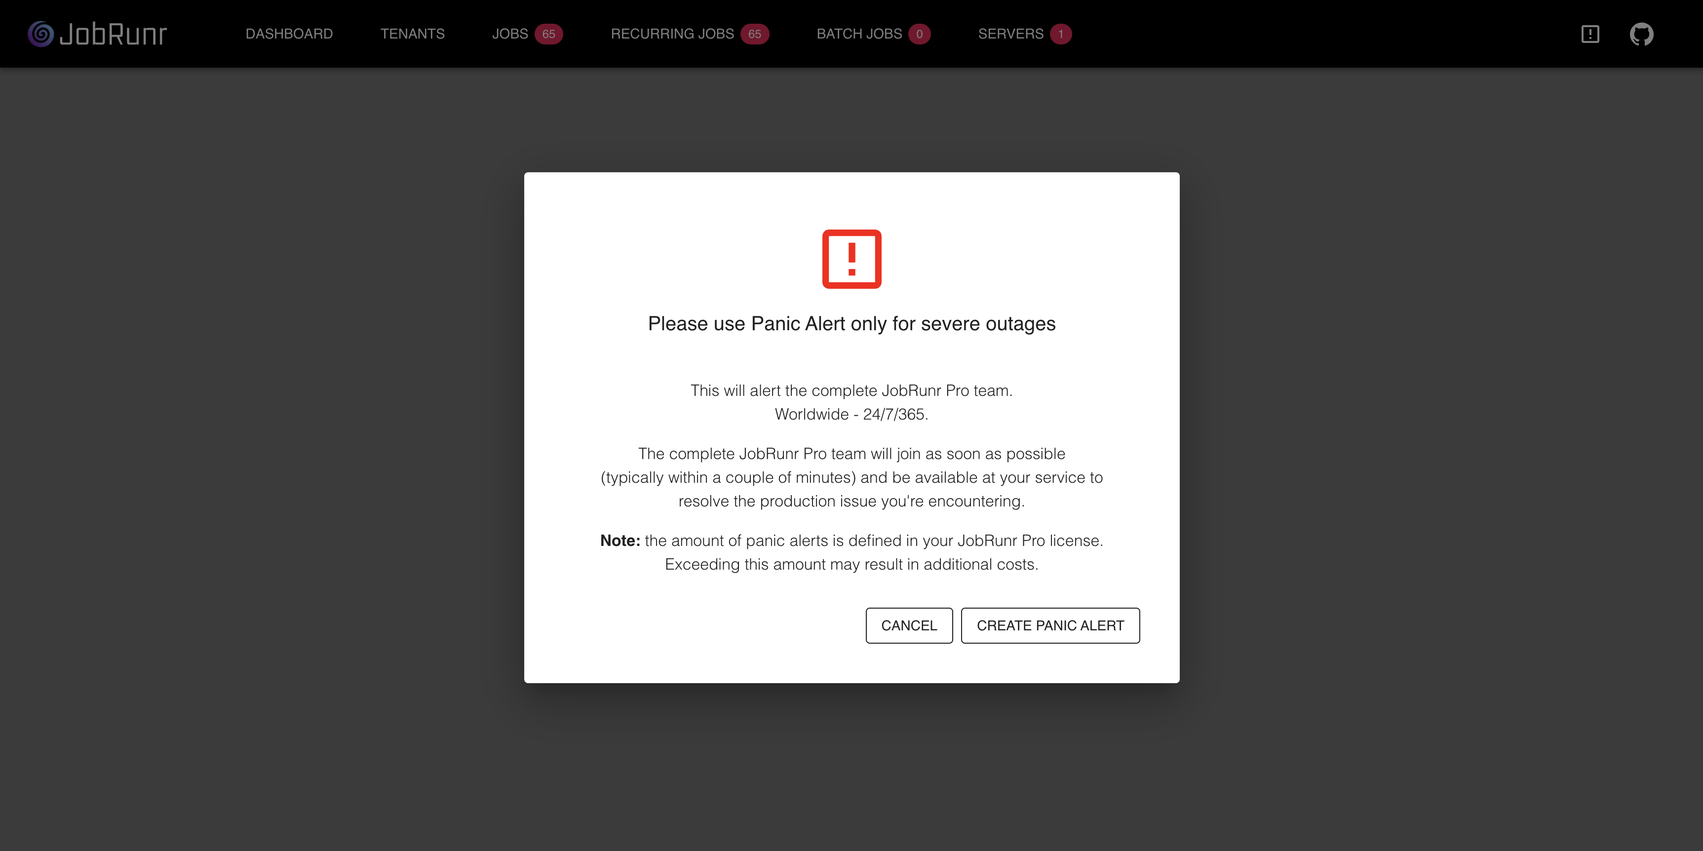
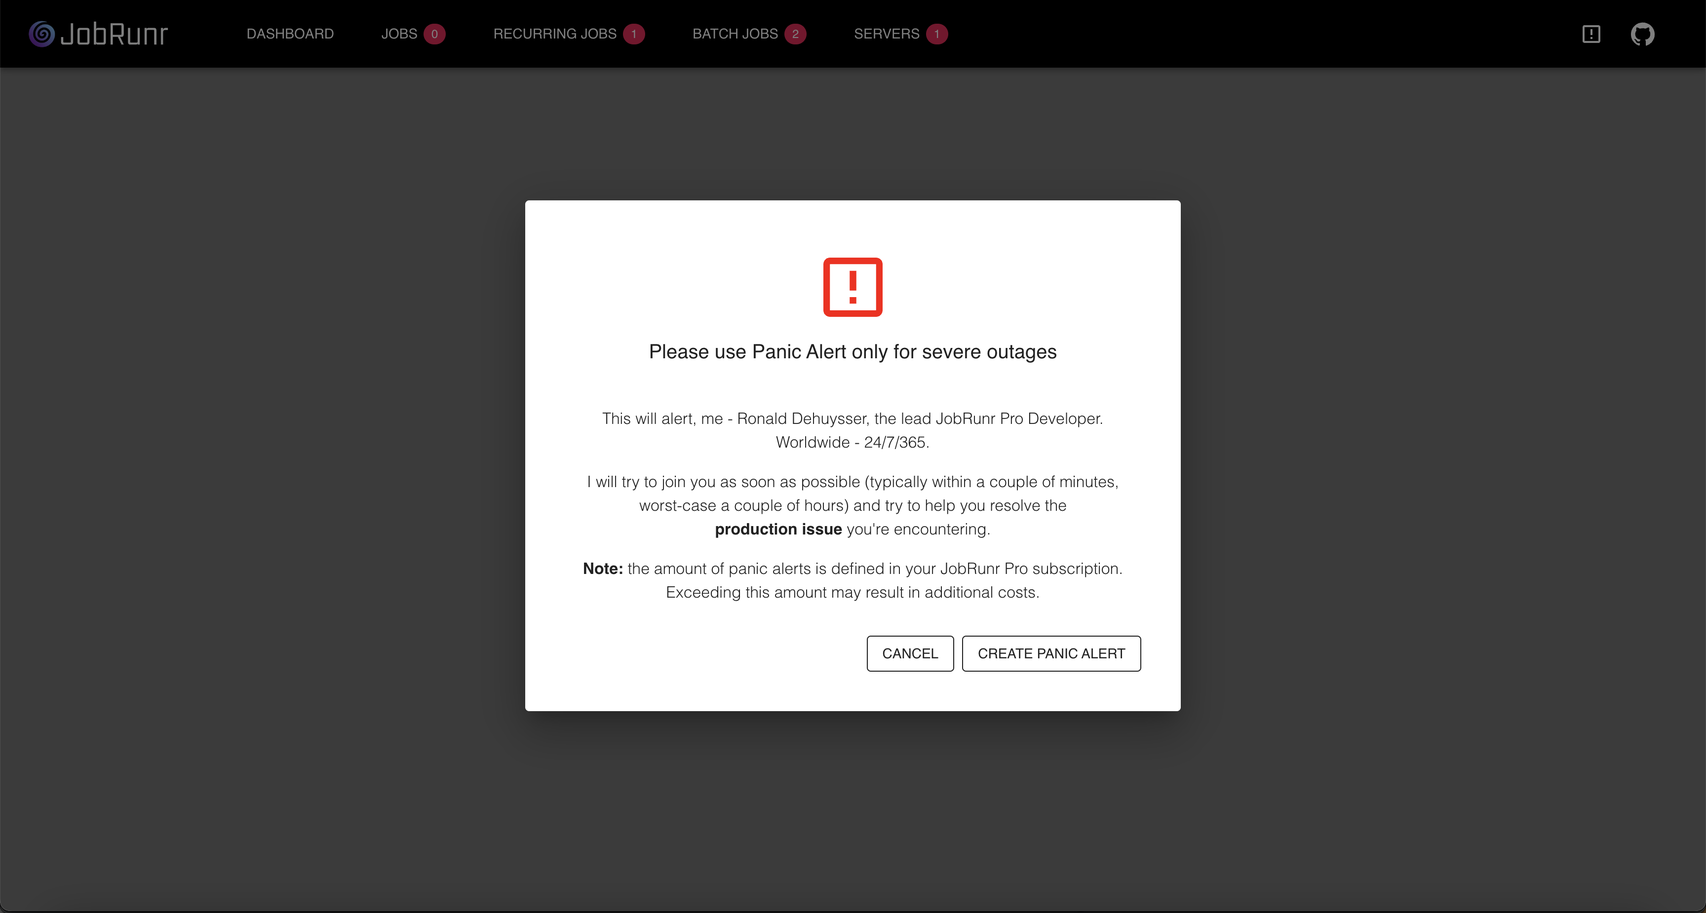
Add latest files

diff --git a/themes/casper3/layouts/home.html.html b/themes/casper3/layouts/home.html.html
@@ -424,6 +424,13 @@
         document.getElementById('homepage-selector-manager').classList.add("active");
         document.getElementById('homepage-content-developer').style.display = 'none';
         document.getElementById('homepage-content-manager').style.display = 'block';
+
+        if ('URLSearchParams' in window) {
+            const searchParams = new URLSearchParams(window.location.search)
+            searchParams.set('tab', 'manager');
+            const newRelativePathQuery = window.location.pathname + '?' + searchParams.toString();
+            history.pushState(null, '', newRelativePathQuery);
+        }
     }
 
     function showDeveloperTab() {
@@ -431,35 +438,30 @@
         document.getElementById('homepage-selector-developer').classList.add("active");
         document.getElementById('homepage-content-manager').style.display = 'none';
         document.getElementById('homepage-content-developer').style.display = 'block';
-    }
 
-    document.getElementById('homepage-selector-manager').addEventListener('click', () => {
-        showManagerTab();
-        if ('URLSearchParams' in window) {
-            const searchParams = new URLSearchParams(window.location.search)
-            searchParams.set('tab', 'manager');
-            const newRelativePathQuery = window.location.pathname + '?' + searchParams.toString();
-            history.pushState(null, '', newRelativePathQuery);
-        }
-    });
-    document.getElementById('homepage-selector-developer').addEventListener('click', () => {
-        showDeveloperTab();
         if ('URLSearchParams' in window) {
             const searchParams = new URLSearchParams(window.location.search)
             searchParams.set('tab', 'developer');
             const newRelativePathQuery = window.location.pathname + '?' + searchParams.toString();
             history.pushState(null, '', newRelativePathQuery);
         }
+    }
+
+    document.getElementById('homepage-selector-manager').addEventListener('click', () => {
+        showManagerTab();
+    });
+    document.getElementById('homepage-selector-developer').addEventListener('click', () => {
+        showDeveloperTab();
     });
 
     if ('URLSearchParams' in window) {
+        console.log(`Hi there, I'm Ronald - the creator of JobRunr. Nice meeting you!`);
         const searchParams = new URLSearchParams(window.location.search)
         if('developer' == searchParams.get("tab")) {
             showDeveloperTab();
         } else if('manager' == searchParams.get("tab")) {
             showManagerTab();
-        } else if (document.referrer && (document.referrer.includes('github.com') || document.referrer.includes('ycombinator.com') || document.referrer.includes('infoq.com') || document.referrer.includes('localhost'))) {
-            console.log(`Hi there, I'm Ronald - the creator of JobRunr. Nice meeting you!`);
+        } else if (document.referrer && (document.referrer.includes('github.com') || document.referrer.includes('ycombinator.com') || document.referrer.includes('infoq.com') || document.referrer.includes('baeldung.com') || document.referrer.includes('localhost'))) {
             showDeveloperTab();
             document.getElementById('developer-no-referrer').style.display = 'none';
             
@@ -470,6 +472,8 @@
                 developerRefererSpan.innerHTML = `Since you're coming from Hacker News, I assume you're <strong>not</strong> interested in the <a href="/en/?tab=manager">marketing fluff</a> and switched tabs for you.&nbsp;See below how easy it is to use JobRunr!`;
             } else if(document.referrer.includes('infoq.com')) {
                 developerRefererSpan.innerHTML = `Since you're coming from InfoQ, I assume you're <strong>not</strong> interested in the <a href="/en/?tab=manager">marketing fluff</a> and switched tabs for you.&nbsp;See below how easy it is to use JobRunr!`;
+            } else if(document.referrer.includes('baeldung.com')) {
+                developerRefererSpan.innerHTML = `Since you're coming from Baeldung, I assume you're <strong>not</strong> interested in the <a href="/en/?tab=manager">marketing fluff</a> and switched tabs for you.&nbsp;See below how easy it is to use JobRunr!`;
             } else if(document.referrer.includes('localhost')) {
                 developerRefererSpan.innerHTML = `Since you're coming from Hacker News, I assume you're <strong>not</strong> interested in the <a href="/en/?tab=manager">marketing fluff</a> and switched tabs for you.&nbsp;See below how easy it is to use JobRunr!`;
             }

diff --git a/content/en/blog/2023-06-06-JobRunr-Pro-panic-button.md b/content/en/blog/2023-06-06-JobRunr-Pro-panic-button.md
@@ -1,0 +1,60 @@
+---
+title: "JobRunr Pro Panic Button"
+summary: "Stay calm and press the Panic Button..."
+feature_image: /blog/2023-05-17-jobrunr-pro-panic-button.png
+date: 2023-06-06T09:12:23+02:00
+author: "Ronald Dehuysser"
+tags:
+  - blog
+  - meta
+---
+{{< trial-button >}}
+
+<div style="text-align: center;margin: -2em 0 2em;">
+<small style="font-size: 70%;"><a href='https://www.freepik.com/vectors/cartoon-astronaut'>Cartoon astronaut vector created by catalyststuff - www.freepik.com</a></small>
+</div>
+
+<style type="text/css">
+    .post-full-content img {display: inline-block; margin: 0 auto}
+</style>
+
+### A Panic Button?
+JobRunr - especially the OSS version - has swiftly established its prominence in mission-critical environments, including banking institutions, government agencies, and other sectors where downtime could lead to significant financial losses and reputational damage. In these high-stakes scenarios, JobRunr's reliable and efficient job scheduling mechanism is invaluable. <br/>
+These days systems need to run like well-oiled machines and any downtime or disruption can have far-reaching consequences. Downtime not only impacts productivity but can also cause significant damage to your reputation. 
+
+Therefore, **JobRunr Pro Enterprise** now includes a Panic Button - a tool designed to minimize damage, prevent losses, provide peace of mind and which acts as a token to our commitment to providing reliable, uninterrupted services. The creation of the Panic Button emerged from one of the core values I believe in and which is part of the Agile Manifesto: *shared responsibility*. It is my promise that if one of our clients is in a challenging situation due to JobRunr, I'm committed to sharing and overcoming that challenge together. Or, to put it more bluntly: if 💩 hits the fan, I'm there to help.
+
+### What is the Panic Button?
+Designed specifically for those unpredictable moments of crisis, the Panic Button serves as an immediate alert system. With just a single press (ok, 4 to be honest 😇), it sends out a warning to me, Ronald Dehuysser, the lead engineer from JobRunr.
+
+The Panic Button ensures that, in the face of a production issue, no time is wasted, facilitating a rapid and coordinated response to resolve the situation as soon as possible. Think of it as an instantaneous SLA - no escalation required. Most of the times, I expect to be able to join your development team within minutes - worst case scenario it may take a couple of hours but I'll do my best to help you troubleshoot the issue even if I'm away from the keyboard. Please note, however, that the Panic Button isn't a guaranteed SLA - it serves as a tool for enabling collaboration in emergency situations.
+
+I also hope that as the JobRunr team grows, more developers can participate in case of such an event.
+
+### How do you use the Panic Button?
+In case of a crisis, things need to be simple - that's what I took into account when designing this new feature.
+
+![Step 0](/blog/2023-05-17-jobrunr-pro-panic-button-step-0.png "The Panic Button is always available via the top navigation bar.")
+
+![Step 1](/blog/2023-05-17-jobrunr-pro-panic-button-step-1.png "A small reminder to tell you that you will likely be waking me up. Not that you shouldn’t proceed, I'm are assuming this is serious and I'm here to help you.")
+
+![Step 2](/blog/2023-05-17-jobrunr-pro-panic-button-step-2.png "A minimal amount of info about your production incident is requested as also the means of collaboration (a Zoom call, a Microsoft Teams meeting, ...)")
+
+![Step 3](/blog/2023-05-17-jobrunr-pro-panic-button-step-3.png "One last confirmation before the actual Panic Alert is created.")
+
+![Step 4](/blog/2023-05-17-jobrunr-pro-panic-button-step-4.png "The Panic Alert is created and I'm being notified.")
+
+### What happens next?
+- Automatically, an incident is created within the JobRunr Pro Github community
+- A summary email is being sent automatically to me
+- My mobile phone starts to ring - whether it is in Do Not Disturb mode or not.
+- As soon I'm up & running (please give me time to grab a coffee 😊 ☕), I will join your online meeting to help find the root cause and avoid any further damage.
+
+## Conclusion
+The Panic Button is a vital feature designed to provide an immediate response mechanism during unexpected production issues - it serves as an instant alert system. In an industry where flawless operation is expected, this tool is crucial in minimizing disruptions, protecting productivity, and preserving reputation.<br/>
+And if you're already an existing JobRunr Pro Enterprise customer, feel free to reach out so we can make sure you have access to this feature.
+
+<center>
+
+![Stay calm and press the panic button](/blog/2023-05-17-jobrunr-pro-panic-button-2.png)
+</center>

diff --git a/content/en/pricing.md b/content/en/pricing.md
@@ -53,8 +53,8 @@ JobRunr OSS with:
 <br><br><br><br><br>
 
 ### Licensing
-- [JobRunr under LGPL 3.0](https://www.gnu.org/licenses/lgpl-3.0.html)
-- Commercial use
+- [JobRunr under LGPL 3.0]({{< ref "licensing/info.md" >}})
+- Commercial use <a class="tooltip" data-title="Did you know that Hibernate is also using LGPL?"><img width="16" height="16" src="/question-mark.svg" style="margin: 0 0 -2px 0; width: 16px"/></a>
 <br><br><br>
 
 ### Community support
@@ -111,7 +111,7 @@ Everything in JobRunr OSS plus:
 <div class="buy">
 
 <strong style='color: #3eb0ef;text-decoration: none;'>4950 <span class="currency-holder">$</span></strong>
-_per PRD cluster / year<br/>(excl. VAT)_
+_per PRD cluster / year <a class="tooltip" data-title="A production cluster is one application running JobRunr Pro with multiple background job servers processing jobs."><img width="16" height="16" src="/question-mark.svg" style="margin: 0 0 -2px 0; width: 16px"/></a><br/>(excl. VAT)_
 
 <a class="button" onclick="gtag('event', 'click_buy_pro', {'event_category': 'ecommerce', 'event_label' : 'plan_business' });" href="/en/get-jobrunr-pro">BUY NOW</a>
 
@@ -133,12 +133,13 @@ _our most powerful offering with security and much more_
 
 ### Features
 Everything in Business plus:
-- Enterprise hardened <a class="tooltip" data-title="Enterprise hardened releases are designed for production environments where the least amount of disruption is the goal. Each release goes through a stress test in addition to a full suite of unit/functional/full-system tests. CPU, memory and performance benchmarks are compared to previous releases for regressions. Additionally, extra external security auditing is performed for maximum security."><img width="16" height="16" src="/question-mark.svg" style="margin: 0 0 -2px 0"/></a>
+- Enterprise hardened <a class="tooltip" data-title="Enterprise hardened releases are designed for production environments where the least amount of disruption is the goal. Each release goes through a stress test in addition to a full suite of unit/functional/full-system tests. CPU, memory and performance benchmarks are compared to previous releases for regressions. Additionally, extra external security auditing is performed for maximum security."><img width="16" height="16" src="/question-mark.svg" style="margin: 0 0 -2px 0; width: 16px"/></a>
+- <a href="{{< ref "blog/2023-06-06-jobrunr-pro-panic-button/" >}}">Panic Button (1 / year)</a> <a href="{{< ref "blog/2023-06-06-jobrunr-pro-panic-button/" >}}" class="tooltip" data-title="The panic button allows to notify me instantaneously, Ronald Dehuysser, in case of a production incident."><img width="16" height="16" src="/question-mark.svg" style="margin: 0 0 -2px 0; width: 16px"/></a>
 - [Unlimited recurring jobs]({{< ref "documentation/background-methods/recurring-jobs.md" >}})
 - Unlimited clusters
 - [Dashboard security]({{< ref "documentation/pro/jobrunr-pro-dashboard.md#restrict-access-using-openid-authentication" >}})
 - [GDPR compliant dashboard]({{< ref "documentation/pro/jobrunr-pro-dashboard.md#gdpr-compliant-dashboard" >}})
-<br><br><br><br><br>
+<br><br><br><br>
 
 ### Licensing
 - [Standard EULA]({{< ref "licensing/standard-eula.md" >}})

diff --git a/content/en/documentation/pro/observability.md b/content/en/documentation/pro/observability.md
@@ -1,0 +1,75 @@
+---
+version: "pro"
+title: "Observability"
+subtitle: "JobRunr Pro integrates with your observability platform to make sure all your jobs keep running like clockwork"
+date: 2020-08-27T11:12:23+02:00
+layout: "documentation"
+menu: 
+  main: 
+    identifier: observability
+    parent: 'jobrunr-pro'
+    weight: 2
+---
+{{< trial-button >}}
+
+Although the JobRunr Pro Dashboard gives instant insights how your jobs are doing, you may already have an observability platform like [Jaeger](https://www.jaegertracing.io/), [HoneyComb](https://www.honeycomb.io) or [New Relic](https://newrelic.com) running. JobRunr Pro out-of-the box integrates with many of these observability platforms so you can keep on top of things.
+
+
+## MicroMeter Job Timings
+JobRunr allows to export amount of jobs processed, average job duration, maximum job duration and other metrics like job failure count per job. This allows you to reuse your existing tools like [Prometheus](https://prometheus.io), [Grafana](https://grafana.net), ... and be notified by your existing alerting platform in case things go south.
+
+### Configuration
+You can easily enable these timings in Spring Boot, Micronaut and Quarkus using your existing configuration:
+
+<figure>
+
+```
+org.jobrunr.jobs.metrics.micrometer-timers.enabled=true
+```
+<figcaption>This configuration shows how to enable the MicroMeter timers.</figcaption>
+</figure>
+
+
+{{< trial-button >}}
+
+## Observability
+You can also integrate JobRunr with your observability platform thanks to [OpenTelemetry](https://opentelemetry.io/) and [MicroMeter](https://micrometer.io/).
+
+Using the integration of your choice will not only show you the TraceId within the JobRunr Pro Dashboard but it will also show detailed job information in your observability platform.
+
+<figure>
+<img src="/documentation/jobrunr-pro-traceid.png" class="kg-image">
+<figcaption>Jaeger - the duration and all the different API interactions over multiple microservices are automatically available</figcaption>
+</figure>
+
+<figure>
+<img src="/documentation/jobrunr-pro-jaeger-succeeded-job.png" class="kg-image">
+<figcaption>Jaeger - the duration and all the different API interactions over multiple microservices are automatically available</figcaption>
+</figure>
+
+<figure>
+<img src="/documentation/jobrunr-pro-jaeger-failed-job.png" class="kg-image">
+<figcaption>Jaeger - if a job failed, you can easily see what is happening</figcaption>
+</figure>
+
+### Configuration
+You can easily enable observability in Spring Boot, Micronaut and Quarkus using your existing configuration:
+
+<figure>
+
+```
+# enable linking from within the JobRunr Pro Dashboard to your Tracing Provider
+org.jobrunr.dashboard.integrations.observability.jaeger.root-url=http://localhost:16686/
+
+# if you prefer MicroMeter
+org.jobrunr.jobs.metrics.micrometer-observability.enabled=true
+
+# or, if you prefer OpenTelemetry
+org.jobrunr.jobs.metrics.otel-observability.enabled=true
+```
+<figcaption>Just define your preferred observability intregration.</figcaption>
+</figure>
+
+
+
+{{< trial-button >}}

diff --git a/content/en/documentation/pro/_index.md b/content/en/documentation/pro/_index.md
@@ -15,6 +15,7 @@ menu:
 JobRunr Pro is a drop-in replacement for JobRunr, available under a [paid subscription]({{< ref "/pricing.md" >}}) and adds a lot of extra functionality to support your difficult business processes. 
 
 - __[JobRunr Pro Dashboard]({{< ref "jobrunr-pro-dashboard.md" >}}):__ are you processing a lot of jobs and do you quickly need to find that one job? Thanks to the Job Search feature in the JobRunr Pro dashboard you will quickly find any job by name, method signature or any other fields.
+- __[Built-in Obserability]({{< ref "observability.md" >}}):__ keep track on how your jobs are doing over time. Corelate failures easily thanks to built-in observability using your existing observability provider like [Jaeger](https://www.jaegertracing.io/) or [New Relic](https://newrelic.com/).
 - __[Transaction plugin]({{< ref "transactions.md" >}}):__ are you using the [Spring Boot Starter]({{<ref "/documentation/configuration/spring/_index.md">}}) or the [Micronaut integration]({{<ref "/documentation/configuration/micronaut/_index.md">}})? Enjoy out of the box integration with their transactions using the `@Transactional` annotation thanks to the Transaction plugin.
 - __Instant job processing:__ Are you in a hurry? JobRunr Pro starts processing your enqueued jobs instantly.
 - __[Real-time scheduling]({{< ref "real-time-scheduling.md" >}}):__ Are you very punctually? JobRunr Pro has support for real-time scheduling and enqueueing and makes sure your jobs run at the exact moment you specified!
@@ -35,6 +36,7 @@ JobRunr Pro is a drop-in replacement for JobRunr, available under a [paid subscr
 - __[CI/CD integration and Job Migrations]({{< ref "migrations.md" >}}):__ test whether your recent refactoring did not break any job and easily migrate existing scheduled jobs via job migrations. CI/CD for your background jobs is now easier than ever. Or, you can just make your old job methods package private and JobRunr Pro will still execute them.
 - __Pause recurring jobs:__ Do you want to pause your recurring jobs? Just pause them from the dashboard and resume them whenever you are ready.
 - __Start & Stop Background Job Processing:__ Do you want to stop background job processing for a while? Just stop the background job servers from the dashboard and start them whenever you are ready.
+- __[Issue tracking Integration]({{< ref "issuetracking-integration.md" >}}):__ Save time by integrating JobRunr with your issue tracking software.
 
 
 {{< label version="enterprise" >}}JobRunr Pro Enterprise{{< /label >}}<br> 

diff --git a/content/en/documentation/pro/issuetracking-integration.md b/content/en/documentation/pro/issuetracking-integration.md
@@ -1,0 +1,55 @@
+---
+version: "pro"
+title: "Issue Tracking Integration"
+subtitle: "JobRunr Pro integrates with your existing issue tracking software so your developer can save time and do what they do best"
+date: 2020-08-27T11:12:23+02:00
+layout: "documentation"
+menu: 
+  main: 
+    identifier: issue-tracking
+    parent: 'jobrunr-pro'
+    weight: 60
+---
+{{< trial-button >}}
+
+Some jobs may fail due to downtime of an external system, some unforeseen circumstances or perhaps due to a bug.
+
+JobRunr Pro integrates with GitHub issues and Jira so you can easily create an issue in case of a job failure. It will prefill all fields so you can save time and do what you do best: create excelling software without bugs 😊.
+
+
+<figure>
+<img src="/documentation/jobrunr-pro-issue-tracking-integration.png" class="kg-image">
+<figcaption>Create an issue for failed jobs with 1 click in your issue tracking software.</figcaption>
+</figure>
+
+
+## Configuration
+You can easily enable the issue tracking integration in Spring Boot, Micronaut and Quarkus using your existing configuration:
+
+### GitHub
+<figure>
+
+```
+org.jobrunr.dashboard.integrations.issue-tracking.github.organization=jobrunr
+org.jobrunr.dashboard.integrations.issue-tracking.github.repo=jobrunr
+org.jobrunr.dashboard.integrations.issue-tracking.github.labels=bug
+org.jobrunr.dashboard.integrations.issue-tracking.github.assignees=me-myself-and-i
+```
+<figcaption>This configuration shows how to integrate JobRunr with GitHub.</figcaption>
+</figure>
+
+### Jira
+<figure>
+
+```
+org.jobrunr.dashboard.integrations.issue-tracking.jira.root-url=https://[your-jira-instance].atlassian.net/
+org.jobrunr.dashboard.integrations.issue-tracking.jira.project-id=10001
+org.jobrunr.dashboard.integrations.issue-tracking.jira.issue-type=10007
+```
+<figcaption>This configuration shows how to integrate JobRunr with Jira.</figcaption>
+</figure>
+
+
+> Is your issue tracking software not included? [Contact us](/en/contact) and we'll see what we can work out.
+
+{{< trial-button >}}

diff --git a/content/en/blog/2023-06-17-JobRunr-loves-teamtrees.md b/content/en/blog/2023-06-17-JobRunr-loves-teamtrees.md
@@ -1,0 +1,27 @@
+---
+title: "More than 3500 trees 🌳 planted!"
+summary: "Part of the JobRunr revenue goes to #TeamTrees!"
+feature_image: /blog/2023-06-17-team-trees.png
+date: 2023-06-17T09:12:23+02:00
+author: "Ronald Dehuysser"
+tags:
+  - blog
+  - meta
+---
+{{< trial-button >}}
+
+<div style="text-align: center;margin: -2em 0 2em;">
+<small style="font-size: 70%;"><a href='https://www.freepik.com/vectors/cartoon-astronaut'>Cartoon astronaut vector created by catalyststuff - www.freepik.com</a></small>
+</div>
+
+<style type="text/css">
+    .post-full-content img {display: inline-block; margin: 0 auto}
+</style>
+
+### Celebration time!
+Part of the revenue from JobRunr goes to planting trees 🌳 🌴 🌲 and as I'm closing the fiscal year it was about time to plant those trees! So, I'm happy to announce that we're planting [3885 trees using #teamtrees](https://teamtrees.org/search?q=jobrunr)! The reason for this: I think that we should apply the boy-scout rule everywhere, also in the real world 🌍.
+
+And, this is only possible to all the great JobRunr Pro customers - you have my eternal gratitude 🙏. Hopefully we get to 10.000 trees next year!
+
+![The #teamtrees leaderboard](/blog/2023-05-17-leaderboard-teamtrees.jpeg "Jeej!")
+

diff --git a/content/en/documentation/background-methods/recurring-jobs.md b/content/en/documentation/background-methods/recurring-jobs.md
@@ -249,4 +249,4 @@ BackgroundJob.createRecurrently(aRecurringJob()
 
 > __Remark 3:__ please note that the __cron interval__ or __duration__ for your recurring jobs __must be more than your `pollIntervalInSeconds`__. If your `pollIntervalInSeconds` is greater than your cron interval or duration of your recurring jobs, JobRunr will launch multiple instances of the same recurring job to keep up. This means that the same recurring job will be launched multiple times at the same moment.
 
-> __Remark 4:__ also note that the __smallest possible cron interval__ for your recurring jobs is __every 5 seconds__. JobRunr prevents creating recurring jobs every with cron values less than 5 seconds (e.g. every second) as it would generate too much load on your StorageProvider (SQL or noSQL database).
+> __Remark 4:__ also note that the __smallest possible cron interval__ for your recurring jobs is __every 5 seconds__. JobRunr prevents creating recurring jobs with cron values less than every 5 seconds (e.g. every second) as it would generate too much load on your StorageProvider (SQL or noSQL database).

diff --git a/content/en/licensing/info.md b/content/en/licensing/info.md
@@ -12,6 +12,10 @@ Copyright © 2019-2030 Ronald Dehuysser
 JobRunr software is an open-source software that is multi-licensed under the terms of the licenses listed in this file. Recipients may choose the terms under which they are want to use or distribute the software, when all the preconditions of a chosen license are satisfied.
 
 ### LGPL v3 License
+<br />
+
+> FYI, just to take away some worries - [Hibernate](https://hibernate.org/) is also using [LGPL](https://github.com/hibernate/hibernate-ogm/blob/main/license.txt).
+
 This program is free software: you can redistribute it and/or modify it under the terms of the GNU Lesser General Public License as published by the Free Software Foundation, either version 3 of the License, or (at your option) any later version.
 
 This program is distributed in the hope that it will be useful, but WITHOUT ANY WARRANTY; without even the implied warranty of MERCHANTABILITY or FITNESS FOR A PARTICULAR PURPOSE. See the GNU Lesser General Public License for more details.

diff --git a/content/en/blog/2024-06-12-buy-vs-build.md b/content/en/blog/2024-06-12-buy-vs-build.md
@@ -2,7 +2,7 @@
 title: "Buy vs Build in open-source"
 summary: "I would love your input on how to convince your management in the buy vs build decision?"
 feature_image: /blog/2022-12-06-JobRunr-in-the-news.png
-date: 2024-06-12T09:12:23+02:00
+date: 2034-06-12T09:12:23+02:00
 author: "Ronald Dehuysser"
 tags:
   - blog
